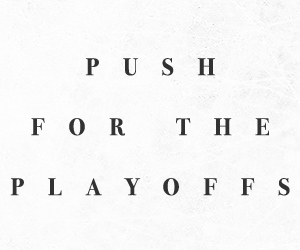
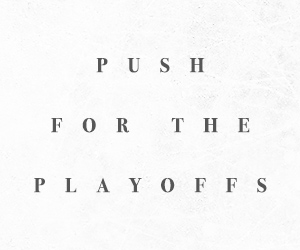
animations

diff --git a/031118/html_css/728x90/728x90.html b/031118/html_css/728x90/728x90.html
@@ -16,12 +16,14 @@
 
       <div id="animation">
 
-        
-        <div id="bg2"></div>
-        <div id="bg3"></div>
+        <div id="bg3_mask">
+          <div id="bg3"></div>
+        </div>
+
         <div id="bg4"></div>
         <div id="bg5"></div>
         <div id="bg6"></div>
+        
         
         <div id="teams_mask">
           <div id="teams"></div>
@@ -38,7 +40,14 @@
 
         <div id="network"></div>
         <div id="faceoff"></div>
-        <div id="bg1"></div>
+        
+        <div id="bg1_mask">
+          <div id="bg1"></div>
+        </div>
+
+        <div id="tagline"></div>
+
+        
         <div id="lines_right"></div>
         <div id="lines_left"></div>
         <div id="lockup"></div>
@@ -57,13 +66,10 @@
 
             $bg1 = $("#bg1"),
             $bg2 = $("#bg2"),
-            // $faceoff = $("#faceoff"),
             $bg3 = $("#bg3"),
             $bg4 = $("#bg4"),
             $bg5 = $("#bg5"),
             $bg6 = $("#bg6"),
-
-
             $lines_left = $("#lines_left"),
             $lines_right = $("#lines_right"),
             $lockup = $("#lockup"),
@@ -73,20 +79,22 @@
             $tag2b = $("#tag2b"),
             $tag3 = $("#tag3"),
             $teams = $("#teams"),
-            
             $gotw = $("#gotw"),
             $gotw_mask = $("#gotw_mask"),
             $time = $("#time"),
             $time_mask = $("#time_mask"),
+            $tagline = $("#tagline"),
+
             tl;
 
-        tl = new TimelineMax({repeat:1, repeatDelay:.7});
+        tl = new TimelineMax({repeat:1, repeatDelay:.5});
 
         tl.add("start")
           .from($animation, 0.5, {autoAlpha:0}, "+=0.5") 
 
           .add("frame2", "+=1.0")
-          .to($lockup, 0.25, {opacity:0}, "frame2")
+          .to($lockup, 0.5, {opacity:0}, "frame2")
+          .to($tagline, 0.5, {opacity:0}, "frame3+=1.8")
           .add("endframe", "+=.25")
           
           .from($teams, 0.6, {xPercent:-100, ease: Power2.easeOut}, "teams+=0.2")
@@ -95,7 +103,7 @@
           .from($network, 0.5, {opacity:0}, "teams+=1.2")
 
           .to($tag3, 0.25, {opacity:0}, "endframe")
-          .to($bg1, .7, {left:728, ease: Power2.easeOut}, "endframe+=-.45")
+          .to($bg1, .5, {left:728, ease: Power2.easeOut}, "endframe+=-.45")
           .to($bg3, .5, {opacity:1}, "start+=1")
           .to($bg4, 1, {opacity:1}, "start+=3.8")
           .to($bg5, 1, {opacity:1}, "start+=5.8")

diff --git a/031118/html_css/160x600/160x600.html b/031118/html_css/160x600/160x600.html
@@ -16,25 +16,44 @@
 
       <div id="animation">
 
-        
-        <div id="bg3"></div>
+        <div id="bg3_mask">
+          <div id="bg3"></div>
+        </div>
+
         <div id="bg4"></div>
         <div id="bg5"></div>
         <div id="bg6"></div>
+        
+        
         <div id="teams_mask">
           <div id="teams"></div>
         </div>
+
         <div id="gotw_mask">
           <div id="gotw"></div>
         </div>
+
         <div id="time_mask">
           <div id="time"></div>
         </div>
+
+
         <div id="network"></div>
-        <div id="bg1"></div>
+        <div id="faceoff"></div>
+        
+        <div id="bg1_mask">
+          <div id="bg1"></div>
+        </div>
+
+        <div id="tagline"></div>
+
+        
         <div id="lines_right"></div>
+        <div id="lines_left"></div>
         <div id="lockup"></div>
+        
       </div>        
+
     </div>
 
     <!-- Load TweenMax here -->
@@ -64,6 +83,8 @@
             $gotw_mask = $("#gotw_mask"),
             $time = $("#time"),
             $time_mask = $("#time_mask"),
+            $tagline = $("#tagline"),
+
             tl;
 
         tl = new TimelineMax({repeat:1, repeatDelay:.5});
@@ -72,7 +93,8 @@
           .from($animation, 0.5, {autoAlpha:0}, "+=0.5") 
 
           .add("frame2", "+=1.0")
-          .to($lockup, 0.25, {opacity:0}, "frame2")
+          .to($lockup, 0.5, {opacity:0}, "frame2")
+          .to($tagline, 0.5, {opacity:0}, "frame3+=1.8")
           .add("endframe", "+=.25")
           
           .from($teams, 0.6, {xPercent:-100, ease: Power2.easeOut}, "teams+=0.2")
@@ -81,12 +103,13 @@
           .from($network, 0.5, {opacity:0}, "teams+=1.2")
 
           .to($tag3, 0.25, {opacity:0}, "endframe")
-          .to($bg1, .5, {left:160, ease: Power2.easeOut}, "endframe+=-.45")
+          .to($bg1, .5, {left:300, ease: Power2.easeOut}, "endframe+=-.45")
           .to($bg3, .5, {opacity:1}, "start+=1")
           .to($bg4, 1, {opacity:1}, "start+=3.8")
           .to($bg5, 1, {opacity:1}, "start+=5.8")
           .to($bg6, 1, {opacity:1}, "start+=7.8")
           ;
+         
     });
     </script>
 </body>

diff --git a/031118/html_css/728x90/style.css b/031118/html_css/728x90/style.css
@@ -42,6 +42,14 @@ body{
 	background: url(images/lockup.jpg) no-repeat;
 }
 
+#tagline{
+	position: absolute;
+	left: 0px;
+	top: 0px;
+	width: 728px;
+	height: 90px;
+	background: url(images/tagline.png) no-repeat;
+}
 
 
 /* ENDFRAME */

diff --git a/031118/html_css/160x600/style.css b/031118/html_css/160x600/style.css
@@ -43,6 +43,14 @@ body{
 }
 
 
+#tagline{
+	position: absolute;
+	left: 0px;
+	top: 0px;
+	width: 160px;
+	height: 600px;
+	background: url(images/tagline.png) no-repeat;
+}
 
 /* ENDFRAME */
 
